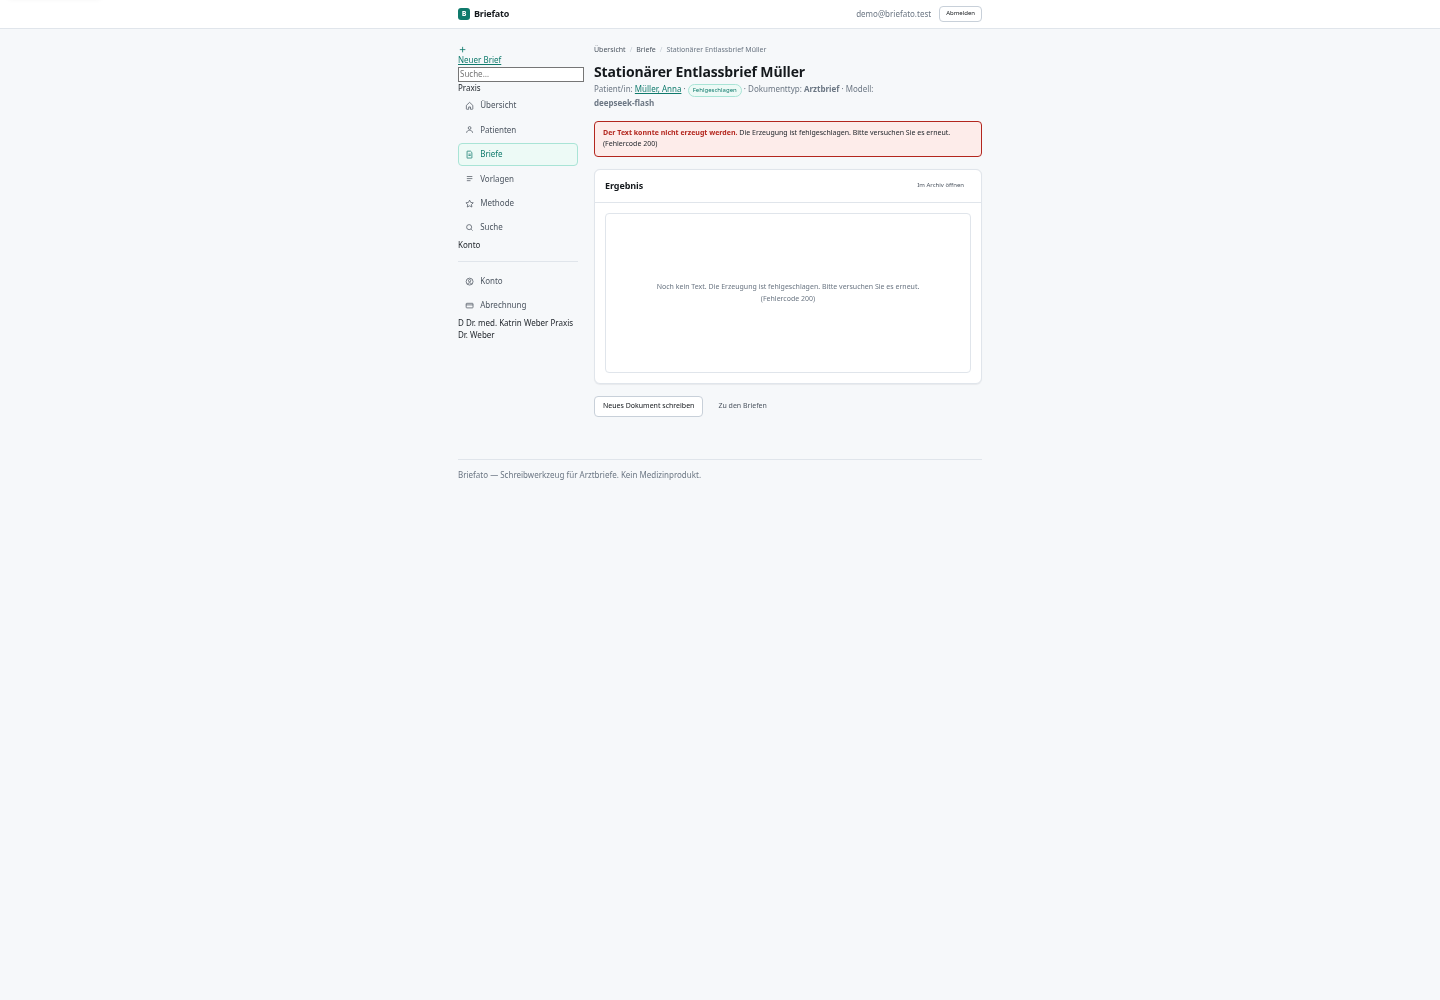
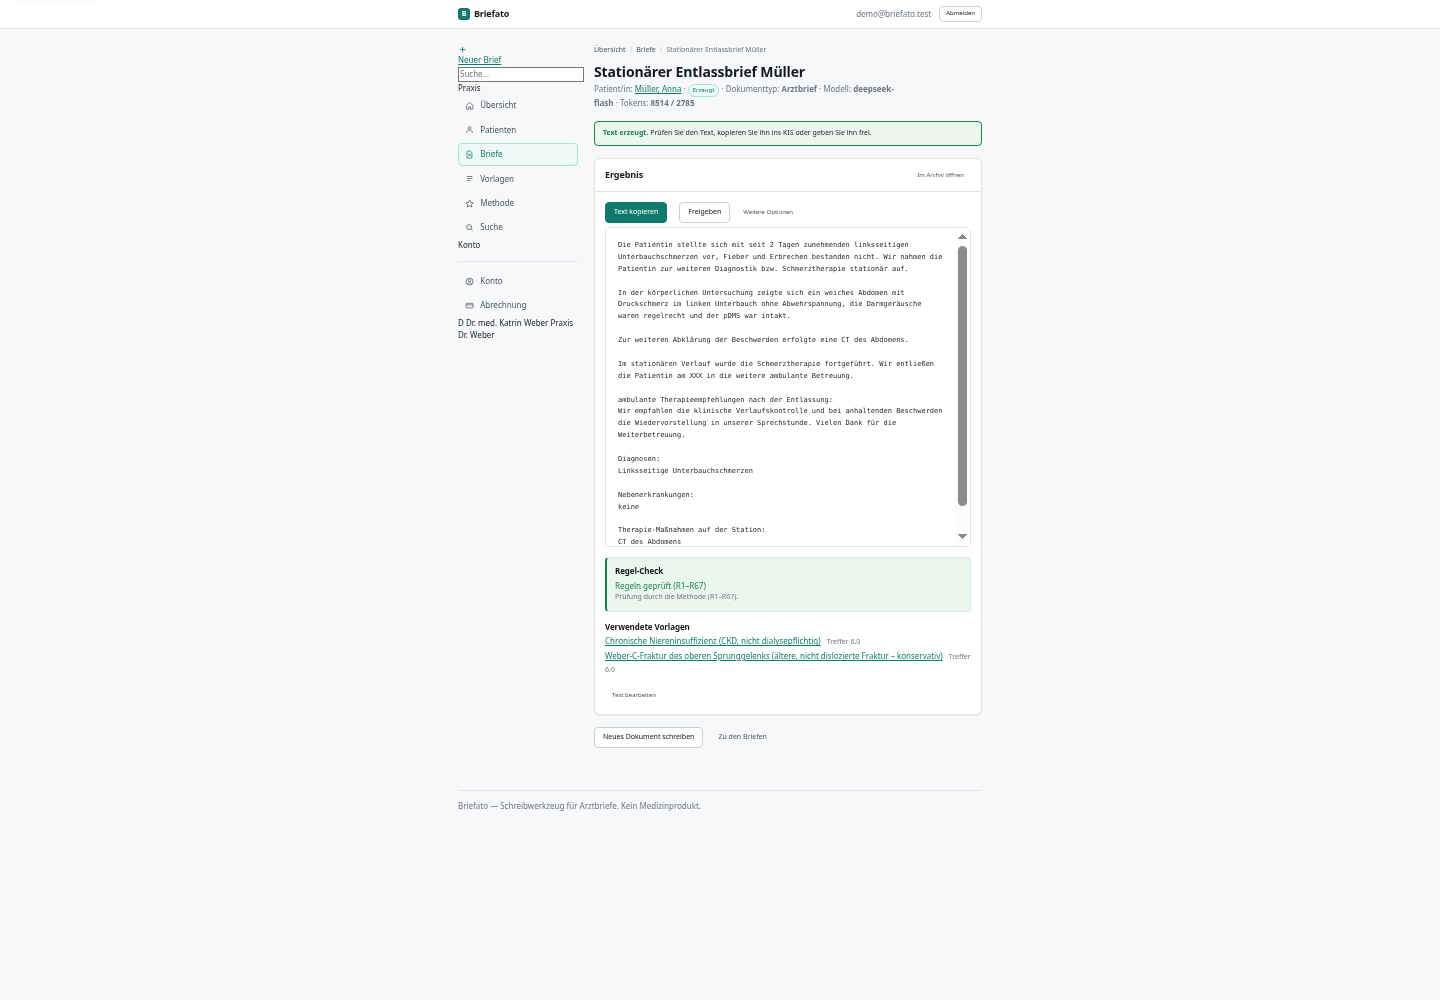
briefato: wizard real-model verification tooling + provider fix + staging evidence

diff --git a/tools/cdp_wizard_real.py b/tools/cdp_wizard_real.py
@@ -132,6 +132,20 @@ FILL = """
 print("filled:", ev(FILL.replace("ANAMNESE", json.dumps(ANAMNESE)).replace("KU", json.dumps(KU))))
 
 # sources: add until we have >=6, then continue to the summary
+# sources: fill whatever the sources step offers (single dictation box and/or labelled sources)
+MULTI_SOURCE = (
+    "Anamnese: seit zwei Tagen zunehmende linksseitige Unterbauchschmerzen, kein Fieber, "
+    "kein Erbrechen. Aufnahme zur weiteren Diagnostik und Schmerztherapie stationaer.\n"
+    "KU: Abd. weich, DS li. UB, keine ABW, DG regelrecht, pDMS intakt.\n"
+    "Labor: CRP 42 mg/l, Leukozyten 12,3/nl, Krea 0,9 mg/dl.\n"
+    "Sonographie: wandverdickte Sigma-Schlinge, kein freier Flussigkeit, keine Abszessbildung.\n"
+    "CT Abdomen: V.a. akute Divertikulitis links, keine Perforation, keine freie Luft.\n"
+    "Roentgen Thorax: keine Infiltrate.\n"
+    "Visiten: unter AB-Therapie Rueckgang der Beschwerden, Kostaufbau ab Tag 2 problemlos.\n"
+    "OP-Bericht: keine Operation im Aufenthalt.\n"
+    "Entlassung: beschwerdefrei, Entlassung am 08.10.2026, Kontrolle beim Hausarzt, "
+    "Koloskopie in 6 Wochen empfohlen."
+)
 for i, (label, text) in enumerate(SOURCES):
     ok = ev("""(() => {
       const sel = Array.from(document.querySelectorAll('form select')).find(s => /quelle|source|label/i.test(s.name||''));
@@ -157,6 +171,13 @@ for n in range(6):
     if "ergebnis" in (ev("location.href") or ""):
         break
     ev(FILL.replace("ANAMNESE", json.dumps(ANAMNESE)).replace("KU", json.dumps(KU)))
+    # on the sources step, paste a labelled multi-source KIS text so the engine fan-outs
+    ev("""(() => {const t = Array.from(document.querySelectorAll('form textarea'))
+      .find(x => !x.value);
+      if (!t) return 'no empty textarea';
+      t.focus(); t.value = %s; t.dispatchEvent(new Event('input',{bubbles:true})); return 'pasted';})()"""
+       % json.dumps(MULTI_SOURCE))
+    time.sleep(1.5)
 
 time.sleep(3)
 shot("w03-ergebnis")
